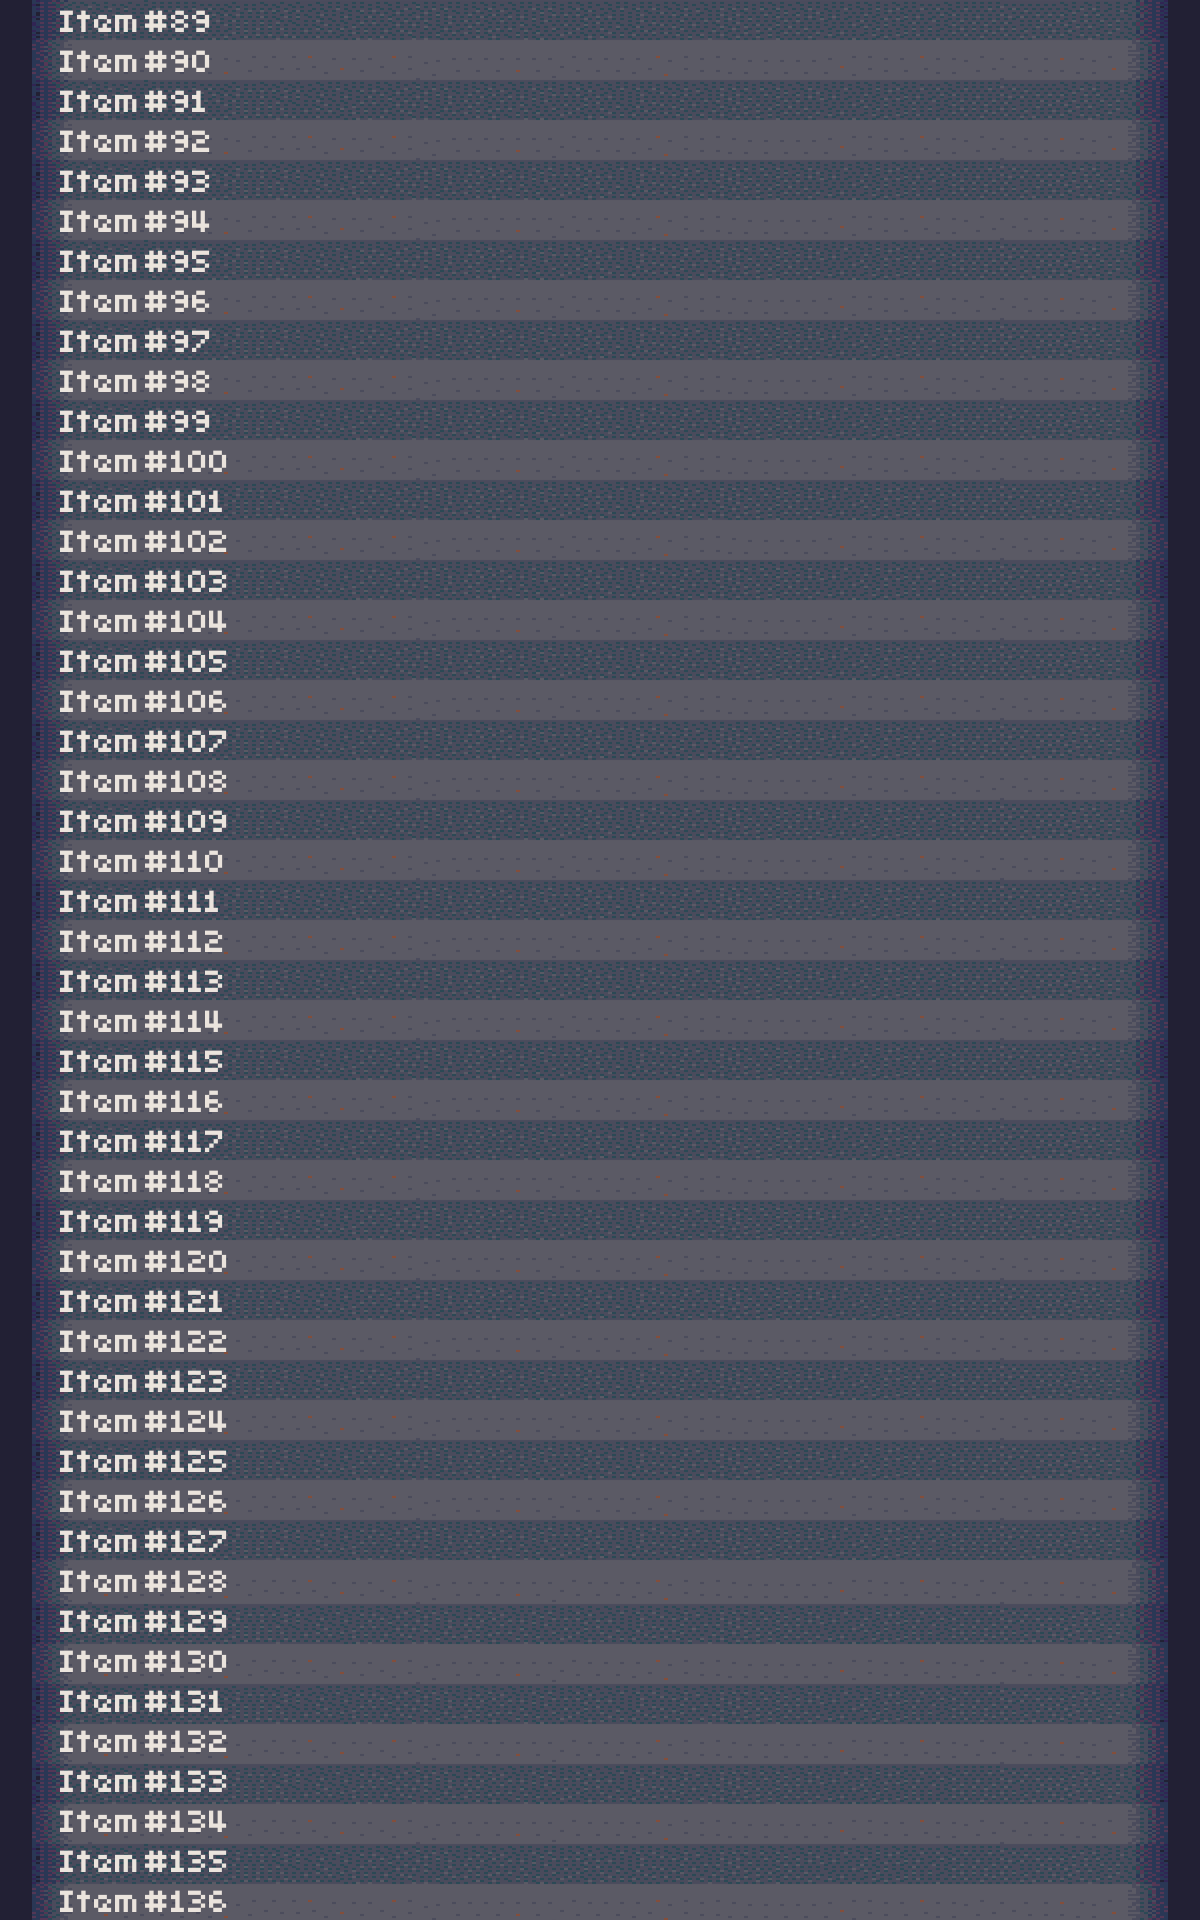
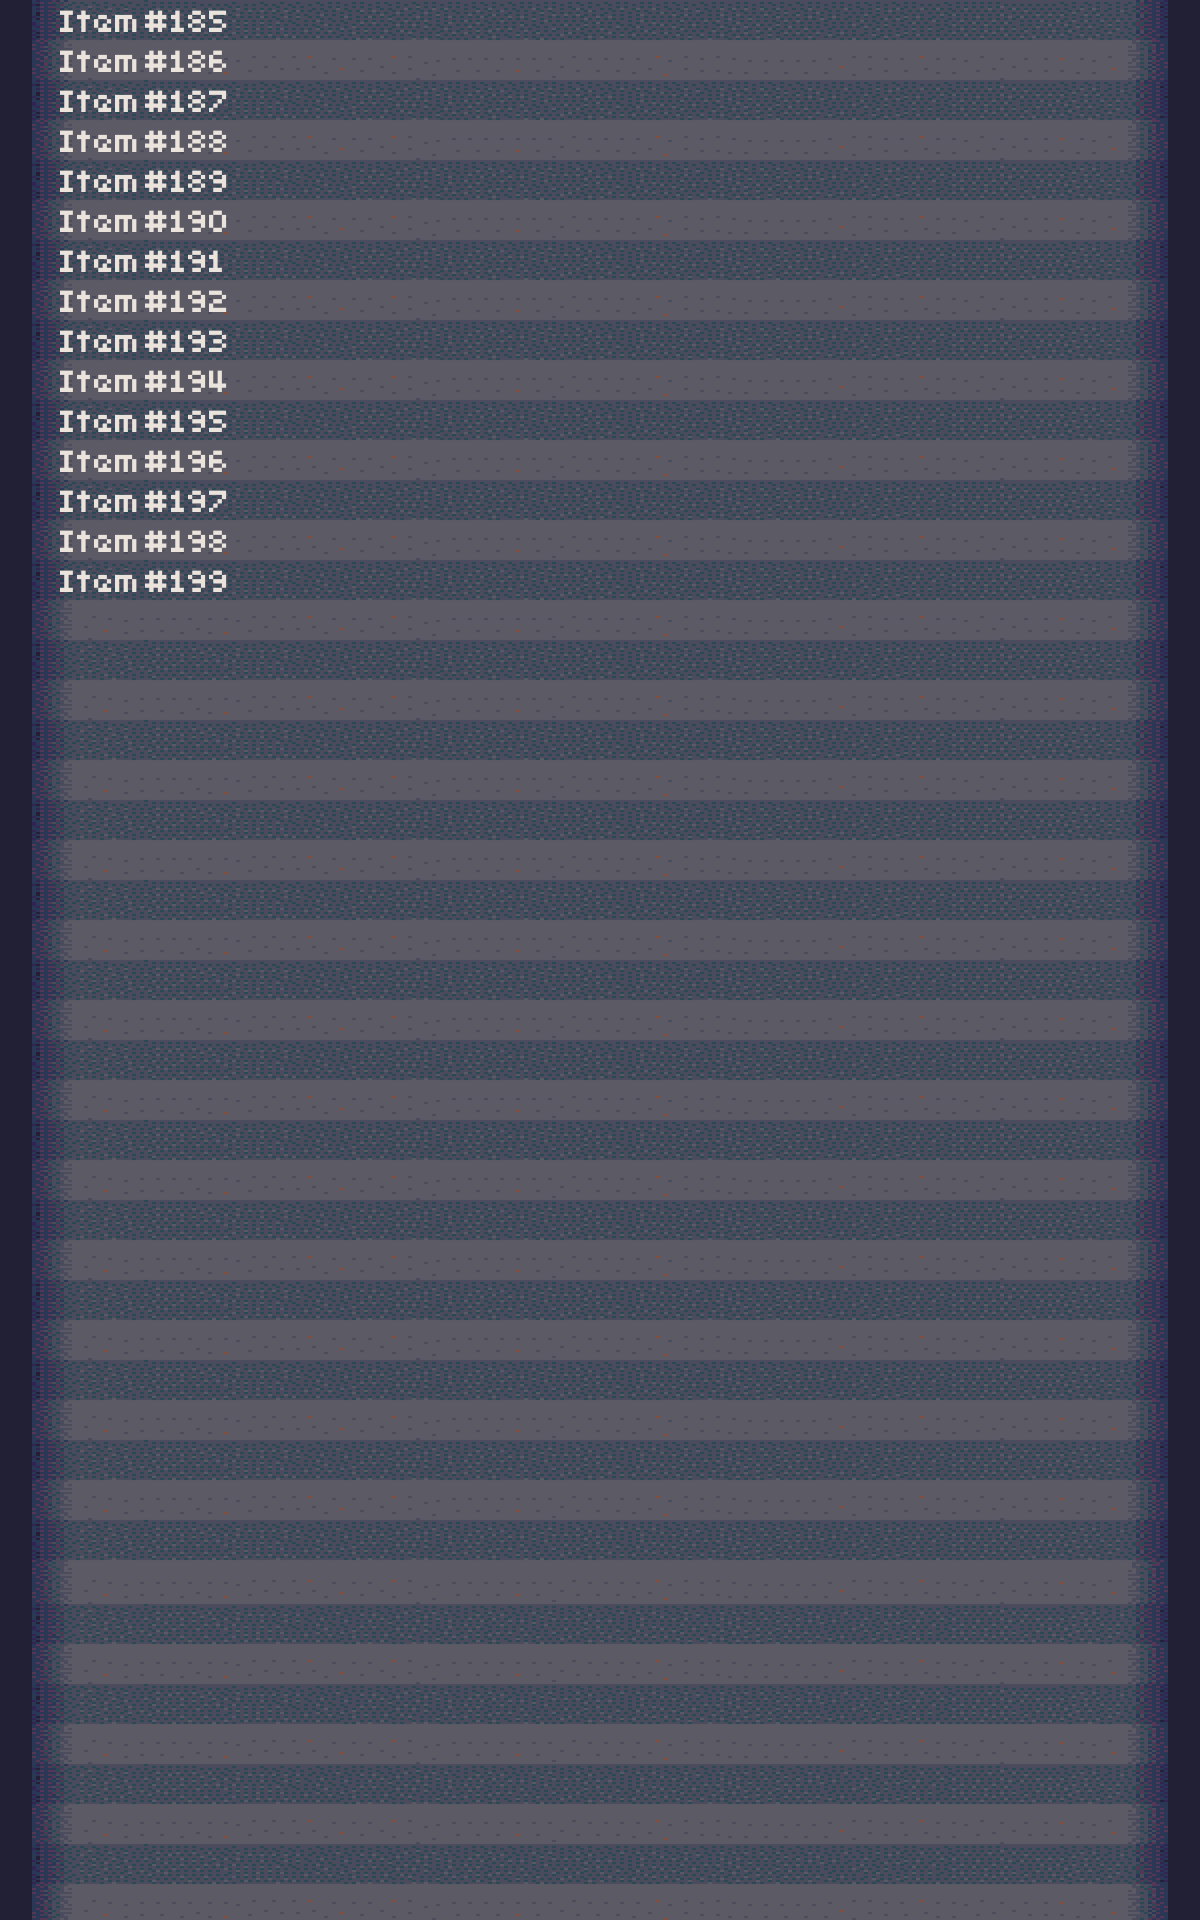
Automatically horizontally merge images

Changed region(s): [[0.0308, 0.0, 0.185, 1.0]]

diff --git a/src/lib/utils.ts b/src/lib/utils.ts
@@ -2,8 +2,9 @@ import { container } from '@sapphire/framework';
 import { send, } from '@sapphire/plugin-editable-commands';
 import { Message, MessageEmbed } from 'discord.js';
 import { RandomLoadingMessage } from './constants';
+import joinImages from 'join-images';
 import Jimp from 'jimp'
-import path from 'path';
+import path, { join } from 'path';
 
 /**
  * Picks a random item from an array
@@ -50,14 +51,14 @@ export async function getMessageFromUrl(url: String): Promise<any> {
  * Generate a list using JIMP
  * @param lines
  */
-export async function generateList(basePath: String, lines: String[]): Promise<any> {
+export async function generateList(basePath: string, lines: String[]): Promise<any> {
 
 	const PRIMARY_BACKGROUND_PATH = path.join(__dirname, '../../src/lib/assets/first.png');
 	const EXTRA_BACKGROUND_PATH = path.join(__dirname, '../../src/lib/assets/extra.png');
 
 	const font = await Jimp.loadFont(path.join(__dirname, '../../src/lib/assets/hypnoverse.fnt'));
 	let bg = await Jimp.read(PRIMARY_BACKGROUND_PATH);
-	let count = 0;
+	let buffers = [];
 
 	// Initial Page Data
 	let x = 60, y = 280, i = 0;
@@ -70,8 +71,7 @@ export async function generateList(basePath: String, lines: String[]): Promise<a
 		i++;
 		if (i % 41 === 0) break;
 	}
-	count++;
-	await bg.writeAsync(`${basePath}/${count}.png`)
+	buffers.push(await bg.getBufferAsync(Jimp.MIME_PNG));
 
 	// Additional Pages
 	while (lines.length !== i) {
@@ -86,9 +86,16 @@ export async function generateList(basePath: String, lines: String[]): Promise<a
 			ei++;
 			if (ei % 49 === 0) break;
 		}
-		count++;
-		await bg.writeAsync(`${basePath}/${count}.png`)
+		buffers.push(await bg.getBufferAsync(Jimp.MIME_PNG));
 	}
 
-	return count;
+	// Combine Images
+	let c = 0;
+	for (let i = 0; i < buffers.length; i += 2) {
+		const b = [buffers[i]];
+		if (buffers[i + 1]) b.push(buffers[i + 1]);
+		const joined = await joinImages(b, { direction: "horizontal" });
+		await joined.toFile(join(basePath, `${c++}.png`));
+	}
+	return c;
 }
